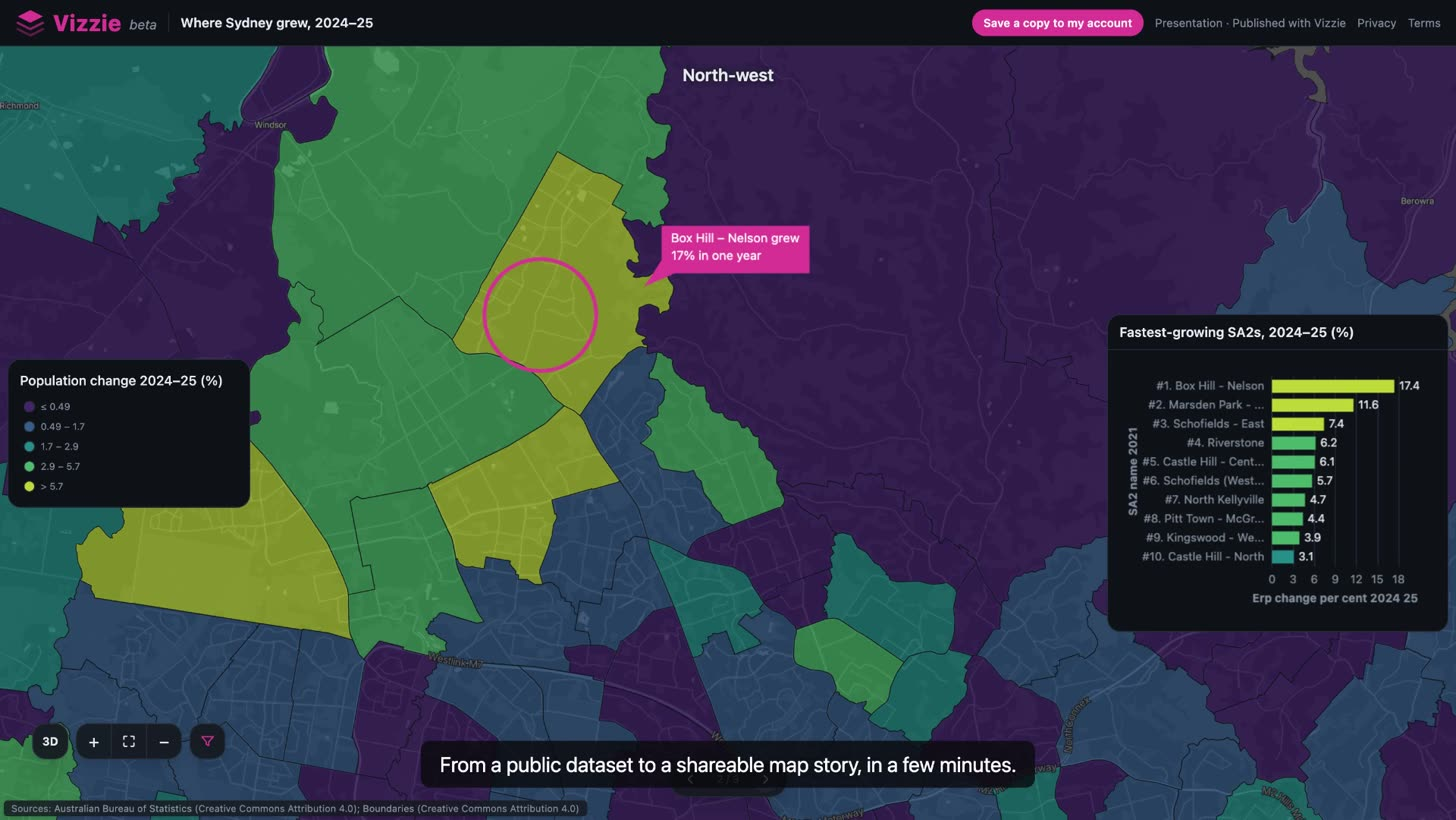
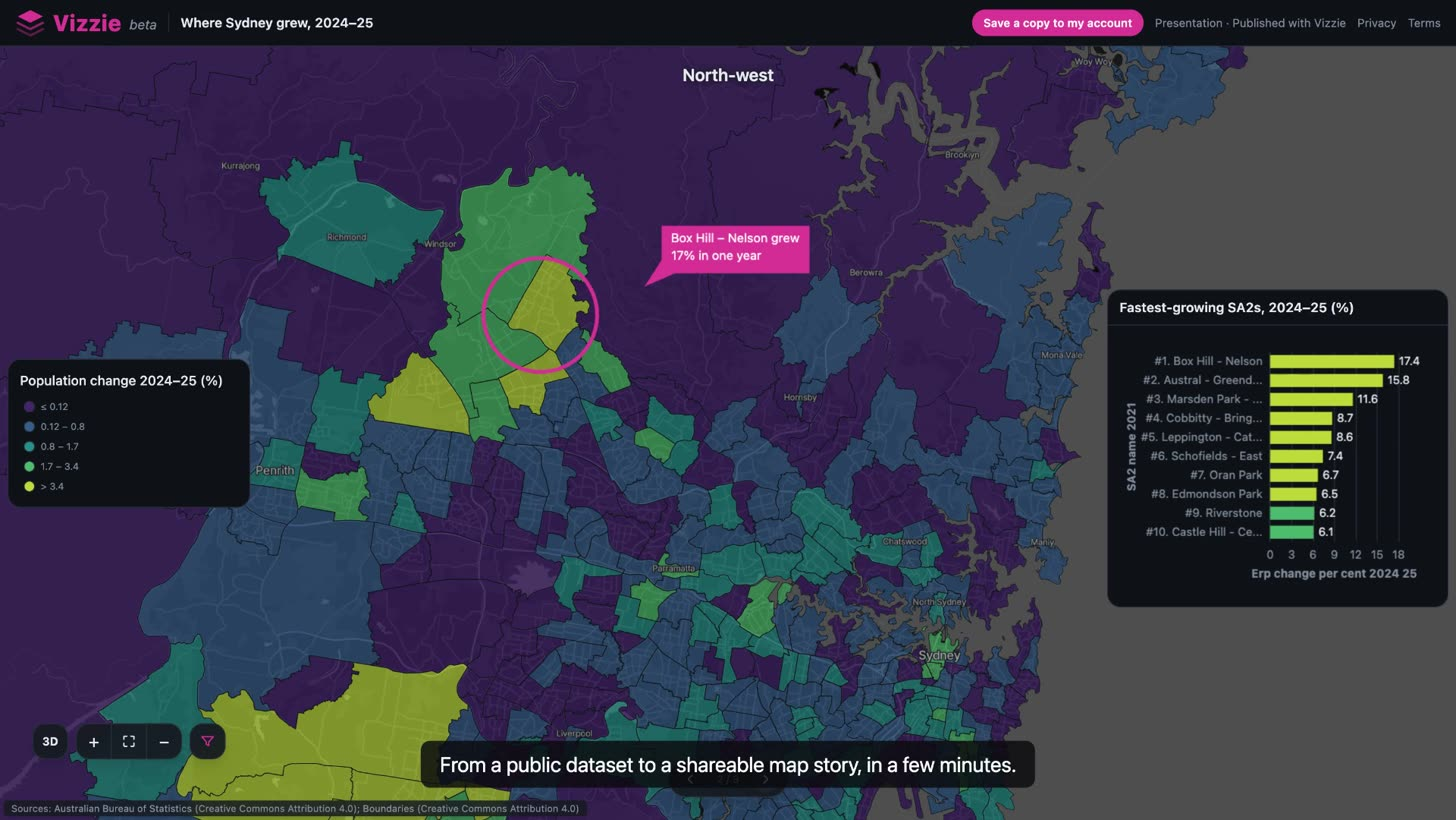
feat: a cleaner take of the walkthrough video
v4 re-records the whole walkthrough with the natural voice: captions
read ABS and SA2, the frames sit at a readable zoom, and the
south-west frame keeps its sketch. The button now opens this take's
presentation.

diff --git a/index.html b/index.html
@@ -325,7 +325,7 @@
         </p>
         <video
           class="shot"
-          src="https://pub-1ee30415ca43496abbc034bc48f48c5f.r2.dev/video/vizzie-intro-v3.mp4"
+          src="https://pub-1ee30415ca43496abbc034bc48f48c5f.r2.dev/video/vizzie-intro-v4.mp4"
           poster="vizzie-intro-poster.jpg"
           width="1920"
           height="1080"
@@ -337,11 +337,11 @@
           preload="metadata"
           aria-label="A walkthrough of Vizzie: searching Sydney, adding the ABS regional population table from the Digital Atlas of Australia, joining it to SA2 boundaries, styling the map, adding a chart, sketching on the map, saving frames, presenting and publishing a link"
         >
-          <track kind="captions" src="intro-video/vizzie-intro-v3.vtt" srclang="en" label="English" />
+          <track kind="captions" src="intro-video/vizzie-intro-v4.vtt" srclang="en" label="English" />
         </video>
 
         <div class="cta-row" style="margin-top: 22px">
-          <a class="btn" data-app="/#view=t368f5ed1362f4e0a829f5cf4d3be3431">Open this presentation →</a>
+          <a class="btn" data-app="/#view=tc750bdc9a97c4f0dbb8d0f67e57b03e3">Open this presentation →</a>
           <span class="sub" style="align-self: center">No sign-up; it opens in Vizzie.</span>
         </div>
       </div>
